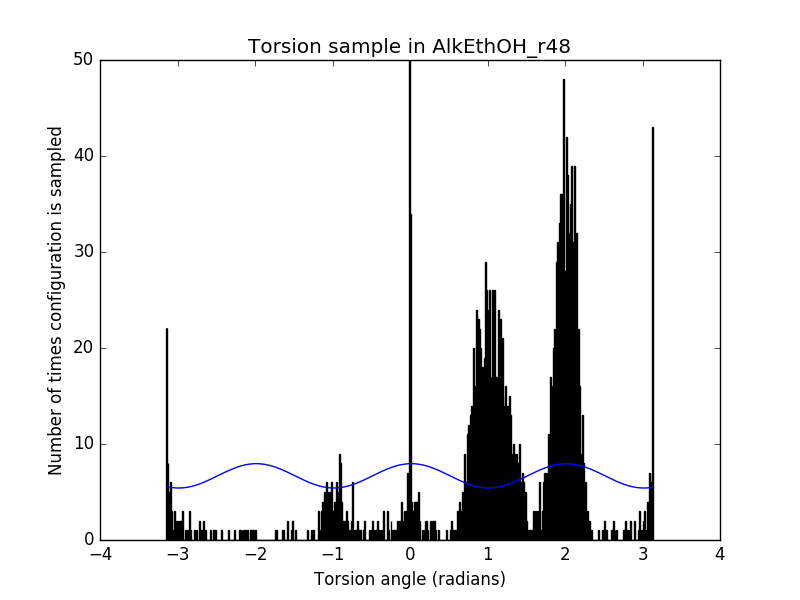
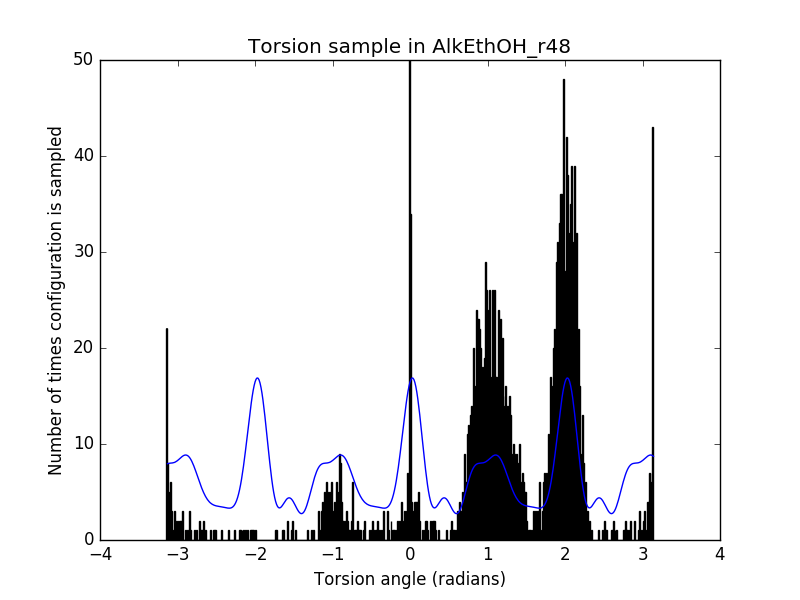
check torsion fit

diff --git a/single-molecule-property-generation/least_squares_fit_example.py b/single-molecule-property-generation/least_squares_fit_example.py
@@ -507,7 +507,7 @@ for i,j in enumerate(n1):
            n1[i]=5.
 
 popt, pcov = sci.curve_fit(fourier, bins1[1:], n1, [1.0]*14)
-plt.plot(bins1[1:],fourier(bins1[1:],popt[0],popt[1],popt[2],popt[3],popt[6]))
+plt.plot(bins1[1:],fourier(bins1[1:],*popt))
 plt.ylabel('Number of times configuration is sampled')
 plt.xlabel('Torsion angle (radians)')
 plt.title('Torsion sample in AlkEthOH_r48')
